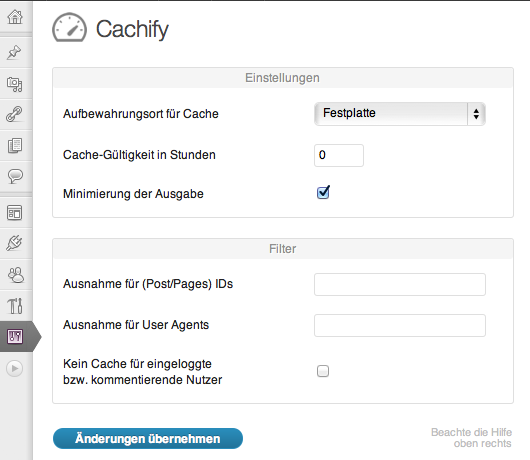
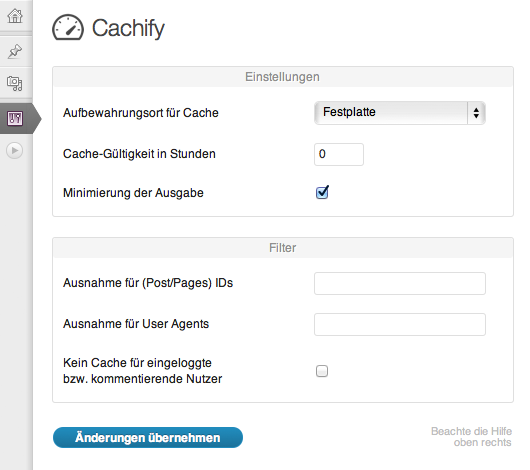
Cachify 2.0.2
git-svn-id: https://plugins.svn.wordpress.org/cachify/trunk@556843 b8457f37-d9ea-0310-8a92-e5e31aec5664

diff --git a/css/style.css b/css/style.css
@@ -1,1 +1,1 @@
-#icon-cachify{background:url('../img/icon32.png') no-repeat;}#cachify_sidebar_icon{width:11px;height:9px;border:0;display:inline-block;background:url(../img/icon.png) no-repeat;}#wp-admin-bar-cachify .ab-icon{position:relative;float:left;width:16px;height:16px;margin-top:6px;background:url(../img/icon16.png) no-repeat 0 -1px;}#cachify_main .table{width:460px;height:1%;margin:20px 0 0;padding:0 0 5px;overflow:hidden;border:1px solid #dfdfdf;}#cachify_main .form-table{margin:0;}#cachify_main .form-table th{width:230px;vertical-align:middle;}#cachify_main .form-table th small{color:#8f8f8f;display:block;text-shadow:none;}#cachify_main .form-table caption{width:100%;color:#8f8f8f;margin:0 0 5px;background:whiteSmoke;line-height:20px;text-shadow:1px 1px #FFF;}#cachify_main .rounded{border-radius:3px;-moz-border-radius:3px;-webkit-border-radius:3px;}#cachify_main input,#cachify_main select{width:172px;}#cachify_main input.small{width:50px;}#cachify_main .submit{width:460px;height:1%;overflow:hidden;}#cachify_main .help{float:right;color:#bebebe;font-size:11px;text-align:right;line-height:11px;}
+#icon-cachify{width:32px;height:32px;background:url('../img/icon@2x.png');background-size:100%;}#wp-admin-bar-cachify .ab-icon{float:left;width:16px;height:16px;position:relative;margin-top:6px;background:url(../img/trash@2x.png);background-size:100%;}#cachify_main .table{width:460px;height:1%;margin:20px 0 0;padding:0 0 5px;overflow:hidden;border:1px solid #dfdfdf;}#cachify_main .form-table{margin:0;}#cachify_main .form-table th{width:230px;vertical-align:middle;}#cachify_main .form-table th small{color:#8f8f8f;display:block;text-shadow:none;}#cachify_main .form-table caption{width:100%;color:#8f8f8f;margin:0 0 5px;background:whiteSmoke;line-height:20px;text-shadow:1px 1px #FFF;}#cachify_main .rounded{border-radius:3px;-moz-border-radius:3px;-webkit-border-radius:3px;}#cachify_main input,#cachify_main select{width:172px;}#cachify_main input.small{width:50px;}#cachify_main .submit{width:460px;height:1%;overflow:hidden;}#cachify_main .help{float:right;color:#bebebe;font-size:11px;text-align:right;line-height:11px;}

diff --git a/css/style.dev.css b/css/style.dev.css
@@ -1,34 +1,26 @@
-/* @group Icon */
+/* @group Plugin Icon */
 
 #icon-cachify {
-	background: url('../img/icon32.png') no-repeat;
+	width: 32px;
+	height: 32px;
+	background: url('../img/icon@2x.png');
+	background-size: 100%;
 }
 
 /* @end group */
 
 
-/* @group Sidebar */
-
-#cachify_sidebar_icon {
-	width: 11px;
-	height: 9px;
-	border: 0;
-	display: inline-block;
-	background: url(../img/icon.png) no-repeat;
-}
-
-/* @end group */
-
-
-/* @group Adminbar */
+/* @group Adminbar Icon */
 
 #wp-admin-bar-cachify .ab-icon {
-	position: relative;
 	float: left;
 	width: 16px;
 	height: 16px;
+	position: relative;
 	margin-top: 6px;
-	background: url(../img/icon16.png) no-repeat 0 -1px;
+	background: url(../img/trash@2x.png);
+	background-size: 100%;
+	
 }
 
 /* @end group */

diff --git a/inc/cachify.class.php b/inc/cachify.class.php
@@ -452,8 +452,7 @@ final class Cachify {
 		return array_merge(
 			$data,
 			array(
-				'<a href="http://flattr.com/profile/sergej.mueller" target="_blank">Plugin flattern</a>',
-				'<a href="https://plus.google.com/110569673423509816572" target="_blank">Auf Google+ folgen</a>'
+				'<a href="http://wpcoder.de" target="_blank">Weitere Plugins des Autors</a>'
 			)
 		);
 	}
@@ -1064,14 +1063,14 @@ final class Cachify {
 	* Einfügen der Optionsseite
 	*
 	* @since   1.0
-	* @change  2.0
+	* @change  2.0.2
 	*/
 
 	public static function add_page()
 	{
 		$page = add_options_page(
 			'Cachify',
-			'<span id="cachify_sidebar_icon"></span>Cachify',
+			'Cachify',
 			'manage_options',
 			'cachify',
 			array(
@@ -1095,7 +1094,7 @@ final class Cachify {
 	* Hilfe-Tab oben rechts
 	*
 	* @since   2.0
-	* @change  2.0
+	* @change  2.0.2
 	*/
 	
 	public static function add_help()
@@ -1115,14 +1114,14 @@ final class Cachify {
 				'title'	  => 'Einstellungen',
 				'content' => '<p>Bereitgestellte Einstellungen in Schnellübersicht:</p>'.
 							 '<ul>'.
-							 	'<li><em>Aufbewahrungsort für Cache</em><br />'.
-							 	'Je nach Verfügbarkeit stehen 3 Methoden der Cache-Speicherung zur Nutzung bereit: <em>Datenbank</em>, <em>APC</em>, <em>Festplatte</em>. Die Standard-Einstellung ist <em>Datenbank</em> - Cache-Inhalte werden dabei in der WordPress-Datenbank abgelegt und dort verwaltet. <em>APC</em> (Alternative PHP Cache) kann bei installiertem APC-PHP-Modul ausgewählt und verwendet werden. <em>Festplatte</em> als Methode ist erst bei eingeschalteten WordPress-Permalinks nutzbar. Bei der Auswahl <em>Festplatte</em> und <em>APC</em> sind Anpassungen in der Datei <em>.htaccess</em> / <em>nginx.conf</em> notwendig.</li>'.
+							 	'<li><strong>Aufbewahrungsort für Cache</strong><br />'.
+							 	'Je nach Verfügbarkeit stehen 3 Methoden der Cache-Speicherung zur Nutzung bereit: <em>Datenbank</em>, <em>APC</em>, <em>Festplatte</em>. Die Standard-Einstellung ist <em>Datenbank</em> - Cache-Inhalte werden dabei in der WordPress-Datenbank abgelegt und dort verwaltet. <em>APC</em> (Alternative PHP Cache) kann bei installiertem APC-PHP-Modul ausgewählt und verwendet werden. <em>Festplatte</em> als Methode ist erst bei eingeschalteten WordPress-Permalinks nutzbar. Bei der Auswahl <em>Festplatte</em> und <em>APC</em> sind Anpassungen in der Datei <em>.htaccess</em> / <em>nginx.conf</em> notwendig (siehe Online-Dokumentation).</li>'.
 							 	
-							 	'<li><em>Cache-Gültigkeit in Stunden</em><br />'.
+							 	'<li><strong>Cache-Gültigkeit in Stunden</strong><br />'.
 							 	'Gültigkeitsdauer der Aufbewahrung von Cache-Inhalten. Keine Verwendung bei <em>Festplatte</em> als Caching-Methode. <em>0</em> = <em>unbegrenzt</em></li>'.
 							 	
-							 	'<li><em>Minimierung der Ausgabe</em><br />'.
-							 	'Durch die Entfernung von HTML-Kommentaren und Umbrüchen im Quelltext der Blogseiten kann die Ausgabegröße reduziert und die Übertragung beschleunigt werden. In Fehlerfällen ist die Option zu deaktivieren.</li>'.
+							 	'<li><strong>Minimierung der Ausgabe</strong><br />'.
+							 	'Durch die Entfernung von HTML-Kommentaren und Umbrüchen im Quelltext der Blogseiten kann die Ausgabegröße reduziert und die Übertragung der Daten zum Browser beschleunigt werden. In Fehlerfällen ist die Option zu deaktivieren.</li>'.
 							 '</ul>'
 			)
 		);
@@ -1132,13 +1131,13 @@ final class Cachify {
 				'title'	  => 'Filter',
 				'content' => '<p>Filter grenzen die Cache-Anwendung wie folgt ein:</p>'.
 							 '<ul>'.
-							 	'<li><em>Ausnahme für (Post/Pages) IDs</em><br />'.
+							 	'<li><strong>Ausnahme für (Post/Pages) IDs</strong><br />'.
 							 	'IDs bestimmter Artikel oder/und Seiten, die vom Caching ausgeschlossen werden sollen. Kommaseparierte Liste.</li>'.
 							 	
-							 	'<li><em>Ausnahme für User Agents</em><br />'.
+							 	'<li><strong>Ausnahme für User Agents</strong><br />'.
 							 	'User Agents gewünschter Browser bzw. Apps, die eine zwischengespeicherte Version der Webseite nie angezeigt bekommen sollen. Gilt nicht bei <em>APC</em> und <em>Festplatte</em> als Caching-Methoden.</li>'.
 							 	
-							 	'<li><em>Kein Cache für eingeloggte bzw. kommentierende Nutzer</em><br />'.
+							 	'<li><strong>Kein Cache für eingeloggte bzw. kommentierende Nutzer</strong><br />'.
 							 	'Bei aktiver Option bekommen ausschließlich nicht angemeldete bzw. nicht kommentierende Blog-Nutzer die Cache-Variante einer Webseite angezeigt. Gilt nicht bei <em>APC</em>. Online-Dokumentation beachten.</li>'.
 							 '</ul>'
 			)
@@ -1147,7 +1146,7 @@ final class Cachify {
 			array(
 				'id'	  => 'cachify_dashboard',
 				'title'	  => 'Dashboard',
-				'content' => '<p>Auf dem Admin-Dashboard bildet Cachify die aktuelle Cache-Größe ab. Der Wert aktualisiert sich alle 15 Minuten.</p>'
+				'content' => '<p>Auf dem Admin-Dashboard bildet Cachify die aktuelle Cache-Größe ab. Cachify speichert den Wert für 15 Minuten zwischen.</p>'
 			)
 		);
 		$screen->add_help_tab(
@@ -1163,8 +1162,8 @@ final class Cachify {
 		$screen->set_help_sidebar(
 			'<p><strong>Mehr zum Autor</strong></p>'.
 			'<p><a href="https://plus.google.com/110569673423509816572/" target="_blank">Google+</a></p>'.
-			'<p><a href="http://ebiene.de" target="_blank">Portfolio</a></p>'.
-			'<p><a href="http://flattr.com/profile/sergej.mueller" target="_blank">Flattr</a></p>'
+			'<p><a href="http://wpcoder.de" target="_blank">Plugins</a></p>'.
+			'<p><a href="http://ebiene.de" target="_blank">Portfolio</a></p>'
 		);
 	}
 	

diff --git a/inc/cachify_db.class.php b/inc/cachify_db.class.php
@@ -116,11 +116,18 @@ final class Cachify_DB {
 	* Ausgabe des Cache
 	*
 	* @since   2.0
-	* @change  2.0
+	* @change  2.0.2
+	* 
+	* @param   array  $cache  Array mit Cache-Werten
 	*/
 	
-	public static function print_cache(array $cache)
+	public static function print_cache($cache)
 	{
+		/* Kein Array? */
+		if ( ! is_array($cache) ) {
+			return;
+		}
+		
 		/* Content */
 		echo $cache['data'];
 
@@ -159,14 +166,19 @@ final class Cachify_DB {
 	* Generierung der Signatur
 	*
 	* @since   2.0
-	* @change  2.0
+	* @change  2.0.2
 	*
 	* @param   array   $meta  Inhalt der Metadaten
 	* @return  string  $diff  Signatur als String
 	*/
 	
-	private static function _cache_signatur(array $meta)
+	private static function _cache_signatur($meta)
 	{
+		/* Kein Array? */
+		if ( ! is_array($meta) ) {
+			return;
+		}
+		
 		return sprintf(
 			"\n\n<!--\n%s\n%s\n%s\n%s\n-->",
 			'Cachify | http://bit.ly/cachify',

diff --git a/cachify.php b/cachify.php
@@ -5,7 +5,7 @@ Description: Smarter Cache für WordPress. Reduziert die Ladezeit der Blogseiten
 Author: Sergej M&uuml;ller
 Author URI: http://wpseo.de
 Plugin URI: http://cachify.de
-Version: 2.0.1
+Version: 2.0.2
 */
 
 
